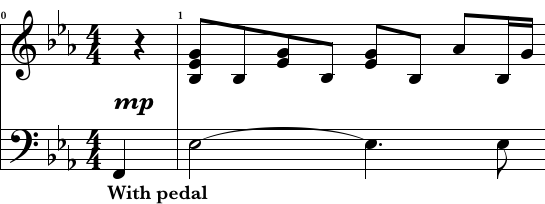
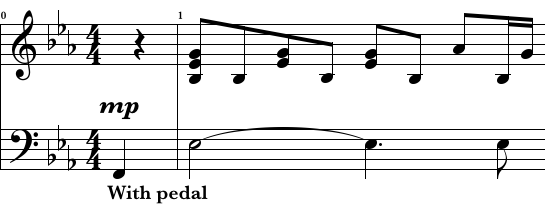
Update mxml and test images
Updates for words and dynamics fixes

Changed region(s): [[0.1872, 0.4706, 0.2807, 0.5882]]

diff --git a/MusicKit/Layers/VMKWordsLayer.mm b/MusicKit/Layers/VMKWordsLayer.mm
@@ -53,13 +53,11 @@
     if (self.wordsGeometry->dynamics()) {
         _textLayer.font = CFSTR("Baskerville-BoldItalic");
         _textLayer.fontSize = 26;
-        
-        // The kernings for this font gets clipped on some letters (eg 'f') by
-        // CATextLayer, prepend a space to allow more room :/
-        preprend = @" ";
+        _textLayer.alignmentMode = kCAAlignmentCenter;
     } else {
         _textLayer.font = CFSTR("Baskerville-SemiBold");
         _textLayer.fontSize = 20;
+        _textLayer.alignmentMode = kCAAlignmentLeft;
     }
     
     if (self.wordsGeometry->contents())

diff --git a/MusicKitAppTests/VMKWordsLayerTests.mm b/MusicKitAppTests/VMKWordsLayerTests.mm
@@ -42,4 +42,19 @@
     }];
 }
 
+- (void)testDontCropSlanted {
+    std::unique_ptr<mxml::dom::Dynamics> dynamics(new mxml::dom::Dynamics);
+    dynamics->setString("f");
+
+    mxml::dom::Direction direction;
+    direction.setType(std::move(dynamics));
+    mxml::WordsGeometry geom(direction);
+
+    VMKWordsLayer* layer = [[VMKWordsLayer alloc] initWithWordsGeometry:&geom];
+
+    [self calculateRenderingErrors:layer forSelector:_cmd testBlock:^(VMKRenderingErrors errors) {
+        XCTAssertLessThanOrEqual(errors.maximumError, kMaximumError);
+    }];
+}
+
 @end
